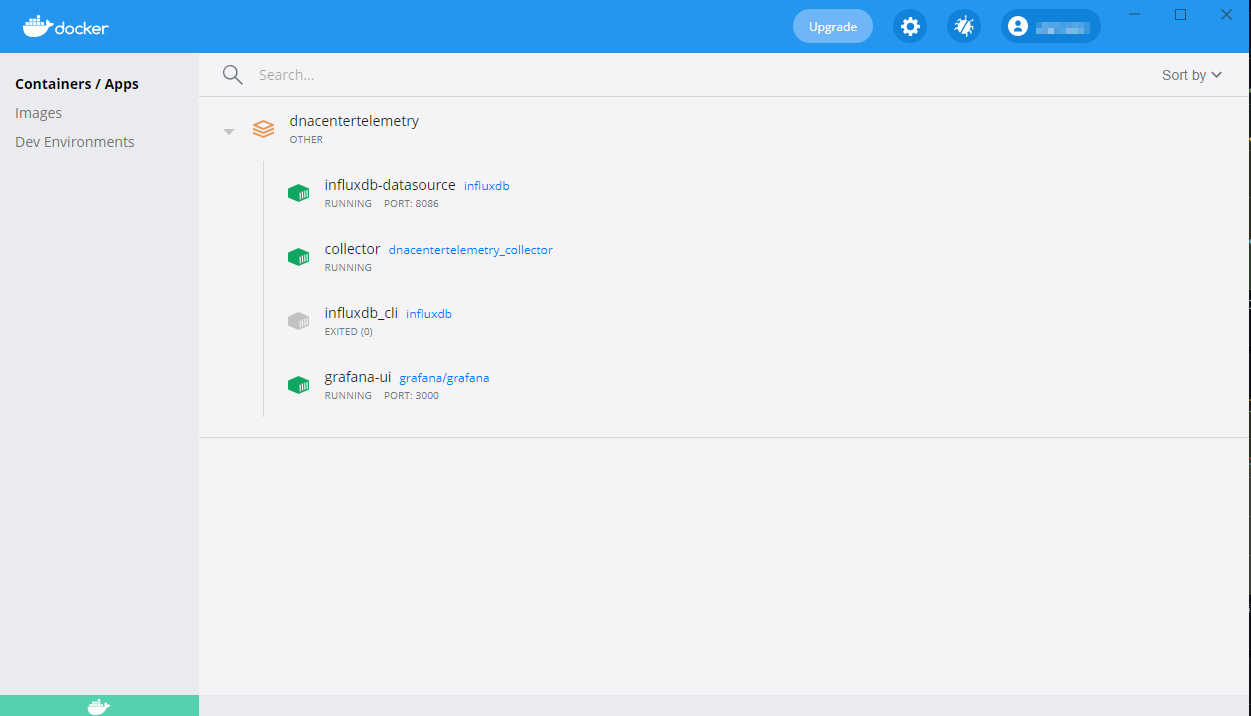
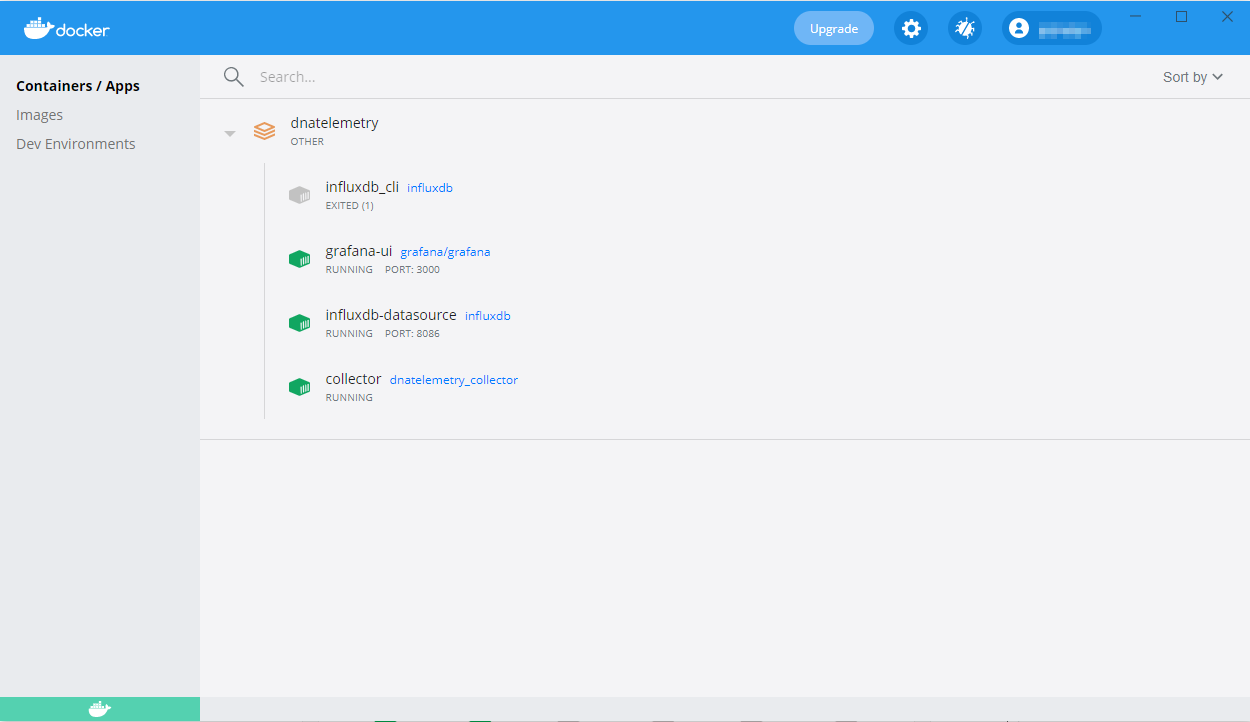
Updated README.md and screenshots.

diff --git a/README.md b/README.md
@@ -1,13 +1,19 @@
-## Welcome to DNA Center Telemetry Dashboard
+## Welcome to DNA Telemetry Dashboard
 
-This small piece of code allows you to quickly create a Grafana Dashboard 
-that is fed from 2 DNA Centers that Cisco has:
+This small piece of code allows you to quickly create a few Grafana Dashboards 
+that are fed from different DNA elements such as DNA Center and vManage 
+(SD-WAN).
+
+The DNA Centers used are:
 - Sandbox: https://sandboxdnac.cisco.com
 - Live: https://live.cisco.com
 
+The vManage used is:
+- SD-WAN demo: https://sdwandemo.cisco.com
+
 The use case behind this project is to show how easy is to integrate the 
-telemetry/assurance information from DNA Center inside a customized dashboard
-that a customer might have.
+telemetry/assurance information from DNA elements inside a customized 
+dashboard that a customer might have.
 
 You can find the basic instructions to run the code in the section 
 [Instructions](#Instructions).
@@ -16,47 +22,53 @@ You can find the basic instructions to run the code in the section
 
 The following image illustrates the architecture:
 
-![Architecture](/images/architecture.png)
+![DNA Center Architecture](/images/DNA_DNAC_Telemetry.png)
+
+![SD-WAN Architecture](/images/DNA_SD-WAN_Telemetry.png)
 
 It uses:
-- Collector: Python-based script
-- InfluxDB 2.0: time series database
-- Grafana: dashboard
+- Collector: Python-based script.
+- InfluxDB 2.0: time series database.
+- Grafana: dashboard.
 
 ## Screenshots
 
 Containers in steady state:
 ![Containers in steady state](/images/containers_steady.png)
 
-General Health Status Dashboard:
-![General Health Status Dashboard](/images/general_health_status.png)
+DNA Center General Health Status Dashboard:
+![DNA Center General Health Status Dashboard](/images/dnac_general_health_status.png)
 
-Hardware Health Dashboard
-![Hardware Health Dashboard](/images/hardware_health.png)
+DNA Center Hardware Health Dashboard
+![DNA Center Hardware Health Dashboard](/images/dnac_hardware_health.png)
+
+SD-WAN General Health Status Dashboard:
+![SD-WAN General Health Status Dashboard](/images/sdwan_general_health_status.png)
+
 
 ## Instructions
 
 ### Requirements
 
-- Access to internet (to connect to the DNA Center instances).
+- Access to internet (to connect to the DNA Center & SD-WAN instances).
 - Docker installed (this app runs on Docker).
 
 ### Versions
 
-This code was developed and tested with Python 3.9, using the DNA Center SDK 
-Dashboard v2.2.2 and influxdb-client v1.17.0 (InfluxDB 2.0).
+This code has been developed and tested with Python 3.9, using the DNA Center 
+SDK Dashboard v2.2.2 and influxdb-client v1.17.0 (InfluxDB 2.0).
 
 ### Steps
 
 1. Clone the repository.
    ```
-   git clone https://wwwin-github.cisco.com/nfitelop/DNA-Center-Telemetry
+   git clone https://wwwin-github.cisco.com/nfitelop/DNA-Telemetry
    ```
 
 2. Go to the directory where the `docker-compose.yml` file is located, pull and
  build all images of the container:
    ```
-    cd DNA-Center-Telemetry/
+    cd DNA-Telemetry/
     docker-compose build
    ```
 
@@ -66,9 +78,13 @@ Dashboard v2.2.2 and influxdb-client v1.17.0 (InfluxDB 2.0).
     docker-compose up -d
    ```
    
-   Note: there is a container named _influxdb_cli_ that just needs to run 
+   **Note:** there is a container named _influxdb_cli_ that just needs to run 
    once, this container will do all the setup work for you and afterwards 
    it will stop.
+   
+   **Note 2:** the containers _influxdb_cli_ and _collector_ need the database 
+   to be up and running, that takes some time, you might see both 
+   containers restarting a few times before they can do their job.
 
    
 4. Browse to http://localhost:3000/ to open Grafana and log in using:
@@ -80,10 +96,12 @@ Dashboard v2.2.2 and influxdb-client v1.17.0 (InfluxDB 2.0).
 
 5. Inside Grafana, click on the _Search_ button on the left-side menu, you 
    will see two dashboards if everything worked correctly:
-   - General Health Status 
-   - Hardware Health
-    
-    You should be able to access them and see the information from DNA Center.
+   - DNAC - General Health Status 
+   - DNAC - Hardware Health
+   - SD-WAN - General Health Status
+   
+   You should be able to access them and see the information from the 
+   different sources.
        
 ### Cleanup
 
